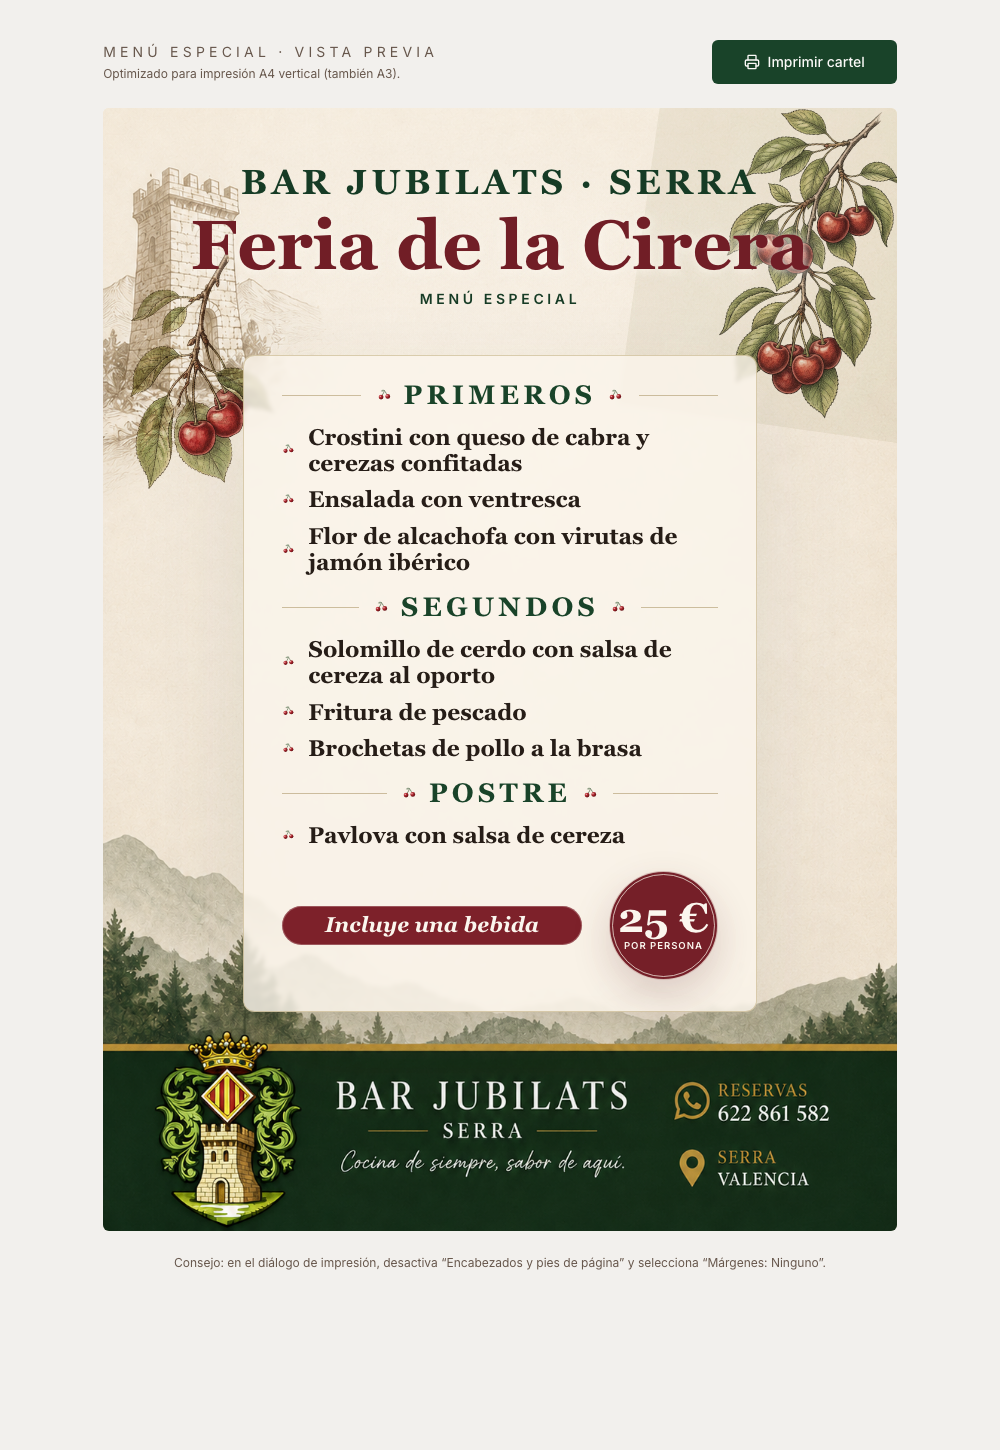
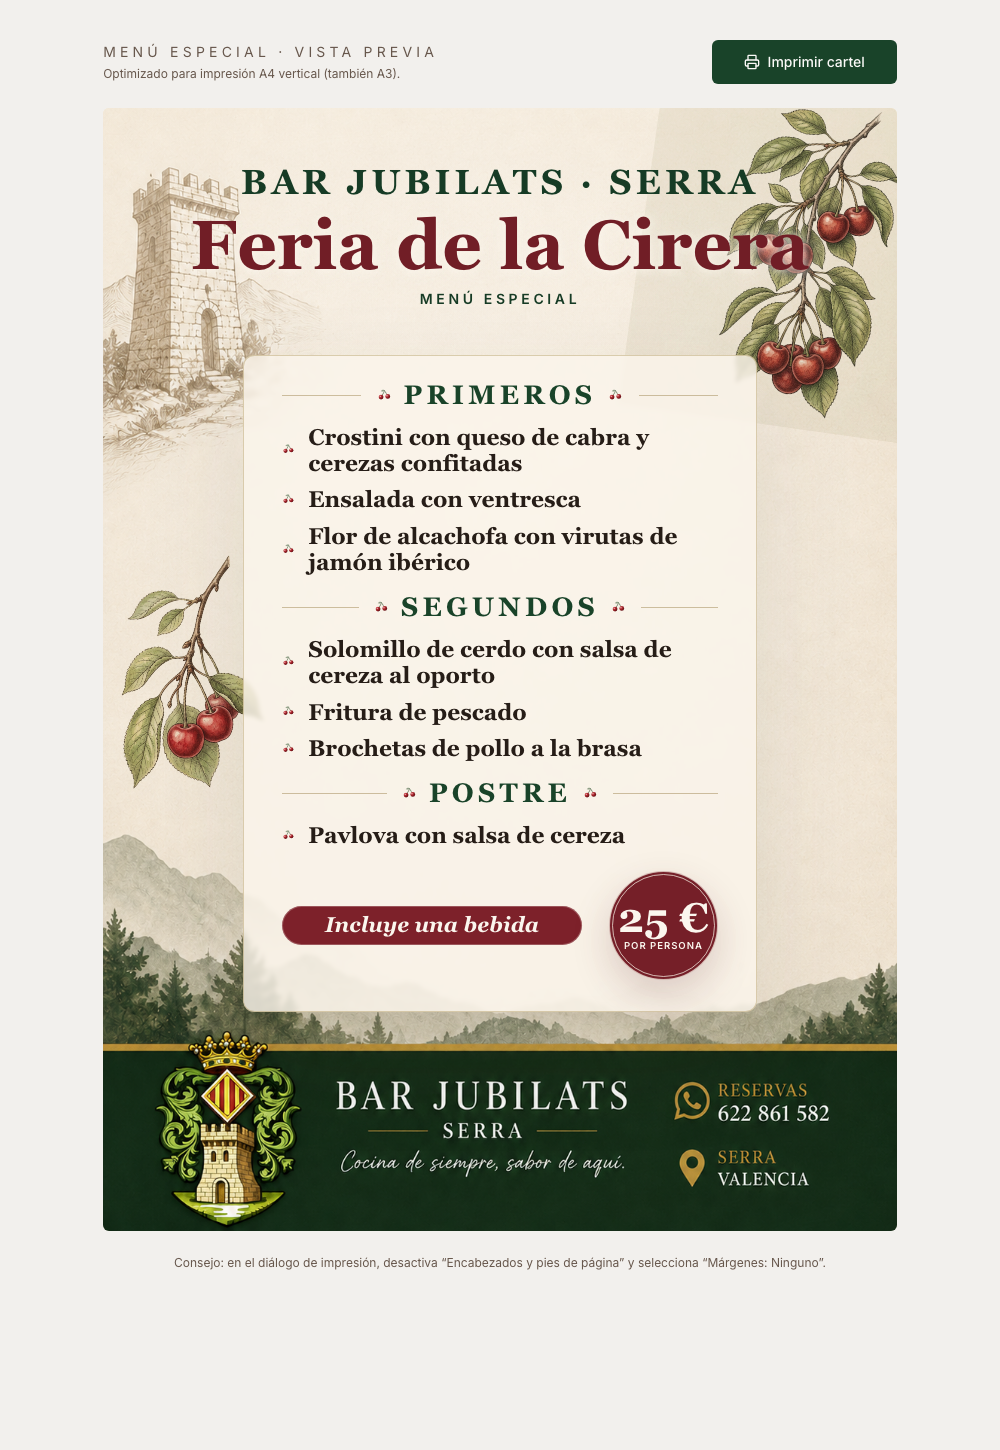
style(cartel): mover rama izquierda mas abajo casi al medio despejando el castillo por completo

Changed region(s): [[0.124, 0.1862, 0.248, 0.3414], [0.124, 0.4034, 0.248, 0.5586], [0.217, 0.3724, 0.248, 0.4034]]

diff --git a/src/components/Poster.tsx b/src/components/Poster.tsx
@@ -122,7 +122,7 @@ const Poster = () => {
         }}
       />
 
-      {/* Top-Left Hanging Cherry Branch (Genuine vintage botanical illustration overlay, leaving the mountain sketch below completely free) */}
+      {/* Middle-Left Hanging Cherry Branch (Genuine vintage botanical illustration overlay, completely below the castle and near the middle of the poster height) */}
       <img
         src={cherryDetail}
         alt=""
@@ -130,14 +130,14 @@ const Poster = () => {
         style={{
           position: "absolute",
           zIndex: 1,
-          left: "-10mm",
-          top: "35mm",
+          left: "-12mm",
+          top: "115mm",
           width: "70mm",
           height: "70mm",
           objectFit: "contain",
           opacity: 0.92,
           mixBlendMode: "multiply",
-          transform: "rotate(-12deg)",
+          transform: "rotate(-8deg)",
           pointerEvents: "none",
           userSelect: "none",
         }}